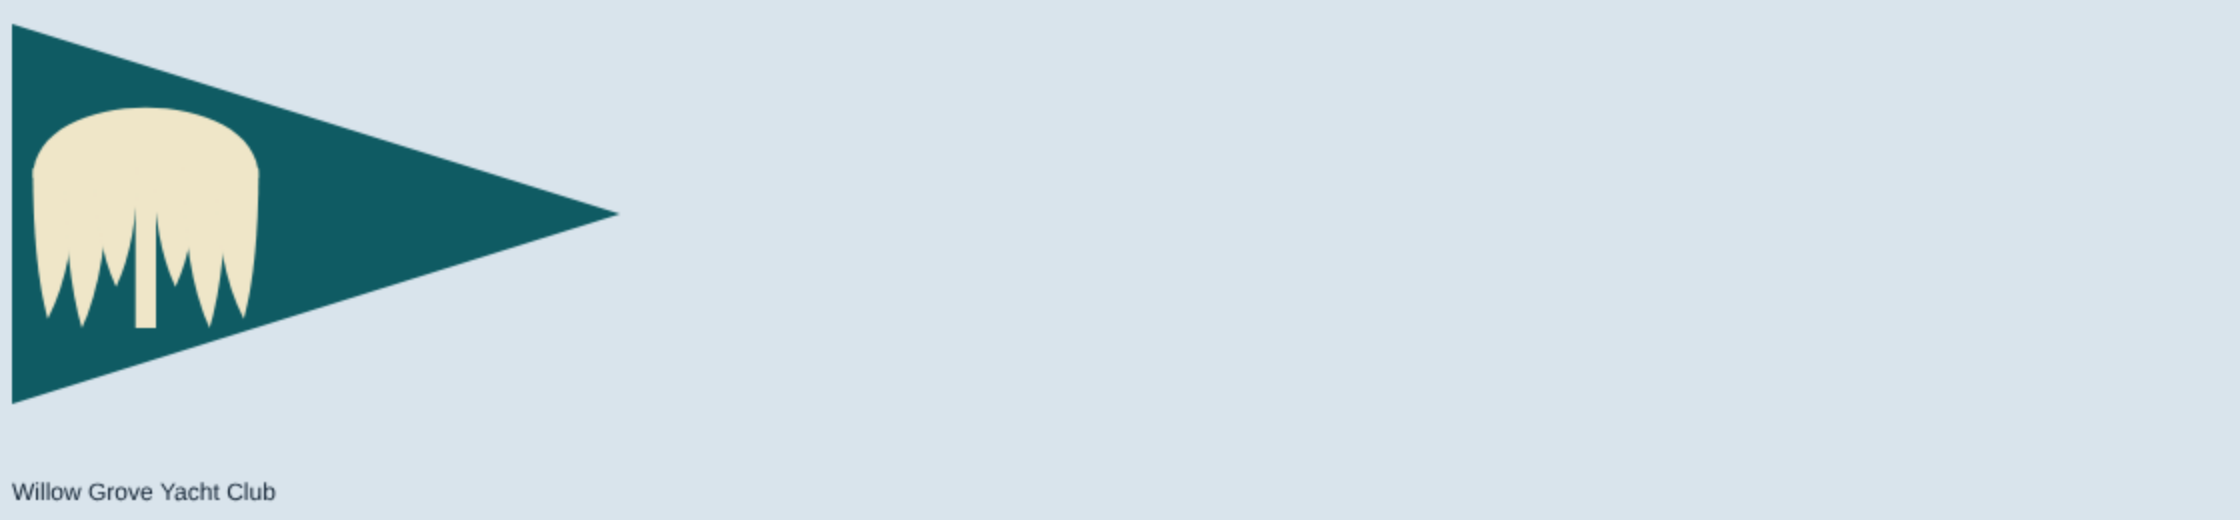
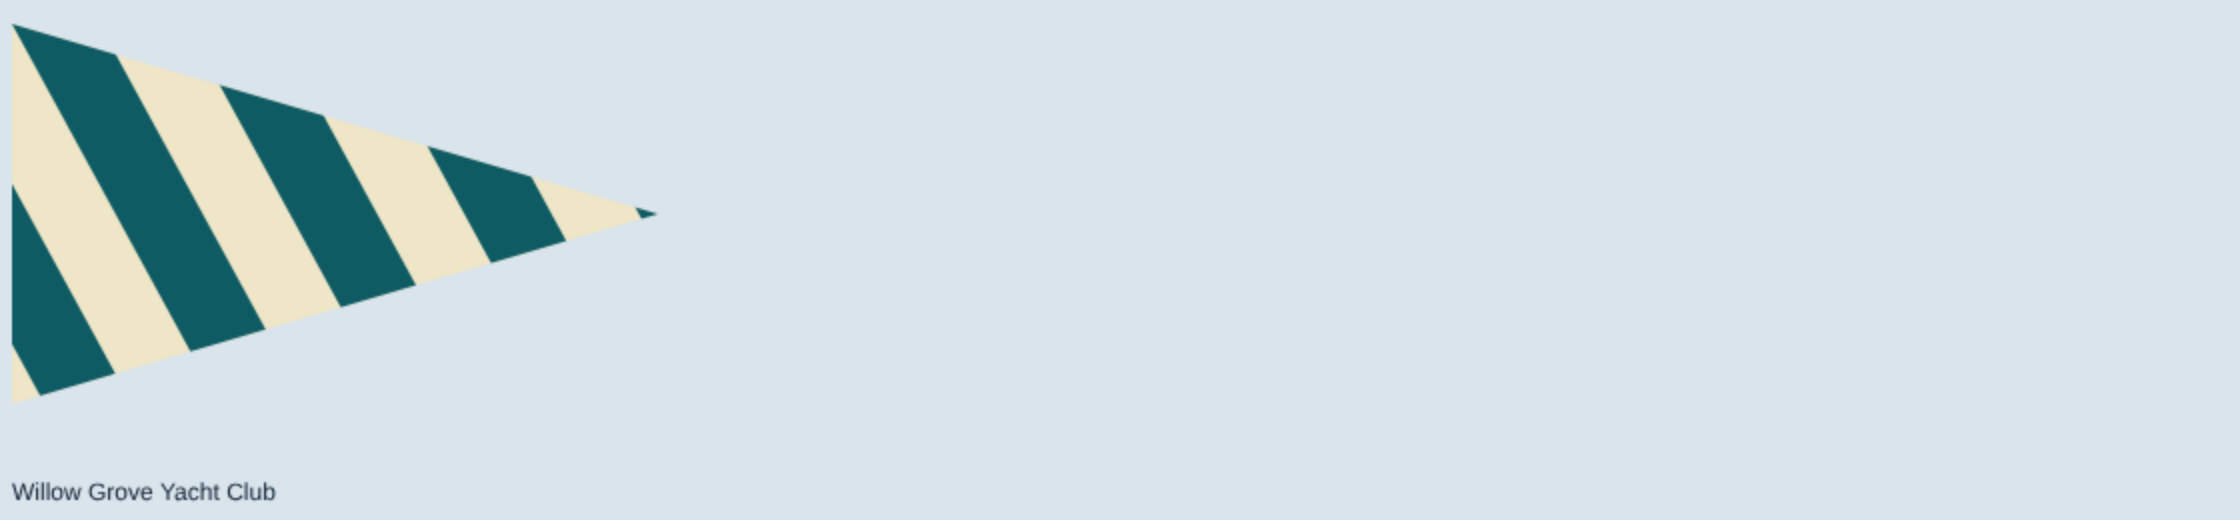
Burgees: Willow Grove, the owner's diagonal-stripe reference in teal and cream
Claude-Session: https://claude.ai/code/session_012Uu5QjYRsEpBxuz7xgHWhs

Changed region(s): [[0.0, 0.0615, 0.3125, 0.7692]]

diff --git a/src/render/burgeeArt.ts b/src/render/burgeeArt.ts
@@ -200,14 +200,9 @@ export const PARODY_BURGEES: Burgee[] = [
       shark(g, W * 0.255, H * 0.53, H * 0.5, WHITE); } },
   { id: 'pyc', shape: 'pennant', ratio: 1.6, // Battery Yacht Club (the Army's old coast-defense post): a light-blue field and two white crossed cannon barrels toward the hoist
     draw: (g, W, H) => { fill(g, W, H, '#8fc4ea'); crossedGuns(g, W * 0.2, H * 0.5, H * 0.5, WHITE, '#8fc4ea'); } },
-  { id: 'ssyc', shape: 'pennant', ratio: 1.6, // Willow Grove (Sausalito, 'little willow grove'): one weeping willow, a round crown with long drooping lobes either side of the trunk, cream on deep teal
-    draw: (g, W, H) => { fill(g, W, H, '#0f5b63');
-      const S = H * 0.6, x0 = W * 0.22 - S / 2, y0 = H * 0.5 - S / 2, X = (u: number) => x0 + u * S, Y = (v: number) => y0 + v * S;
-      g.fillStyle = '#efe6c8'; g.fillRect(X(0.455), Y(0.3), S * 0.09, S * 0.7); // the trunk
-      g.beginPath(); g.moveTo(X(0.005), Y(0.34)); g.bezierCurveTo(X(0.005), Y(-0.07), X(0.995), Y(-0.07), X(0.995), Y(0.34)); g.closePath(); g.fill(); // the crown
-      // the curtain: long drooping pointed lobes either side of the trunk, curving slightly outward
-      [[0.1, 0.96, -0.03], [0.24, 1.0, -0.02], [0.37, 0.82, 0], [0.63, 0.82, 0], [0.76, 1.0, 0.02], [0.9, 0.96, 0.03]].forEach(([u, tip, bend]) => {
-        g.beginPath(); g.moveTo(X(u - 0.095), Y(0.3)); g.quadraticCurveTo(X(u - 0.095), Y(tip * 0.75), X(u + bend), Y(tip)); g.quadraticCurveTo(X(u + 0.095), Y(tip * 0.75), X(u + 0.095), Y(0.3)); g.closePath(); g.fill(); }); } },
+  { id: 'ssyc', shape: 'pennant', ratio: 1.7, // Willow Grove, from the owner's reference: bold diagonal stripes in teal and cream, a teal stripe starting at the top corner
+    draw: (g, W, H) => { fill(g, W, H, '#efe6c8'); const pitch = W * 0.27, wid = W * 0.135, lean = H * 0.545;
+      for (let i = -2; i < 5; i++) poly(g, '#0f5b63', [i * pitch, 0], [i * pitch + wid, 0], [i * pitch + wid + lean, H], [i * pitch + lean, H]); } },
   { id: 'myc', shape: 'pennant', ratio: 1.5, // established: blue, mountain green, a white cap
     draw: (g, W, H) => { fill(g, W, H, '#2a62b8'); poly(g, '#2f7d4a', [W * 0.05, H * 0.7], [W * 0.2, H * 0.28], [W * 0.35, H * 0.7]); poly(g, WHITE, [W * 0.155, H * 0.42], [W * 0.2, H * 0.28], [W * 0.245, H * 0.42]); } },
   { id: 'sryc', shape: 'pennant', ratio: 1.5, // Mission Canal: one mission bell (the owner's drawing) at the top-left, its axis pointing straight at the corner, cream on mission-tile red, a plain field
